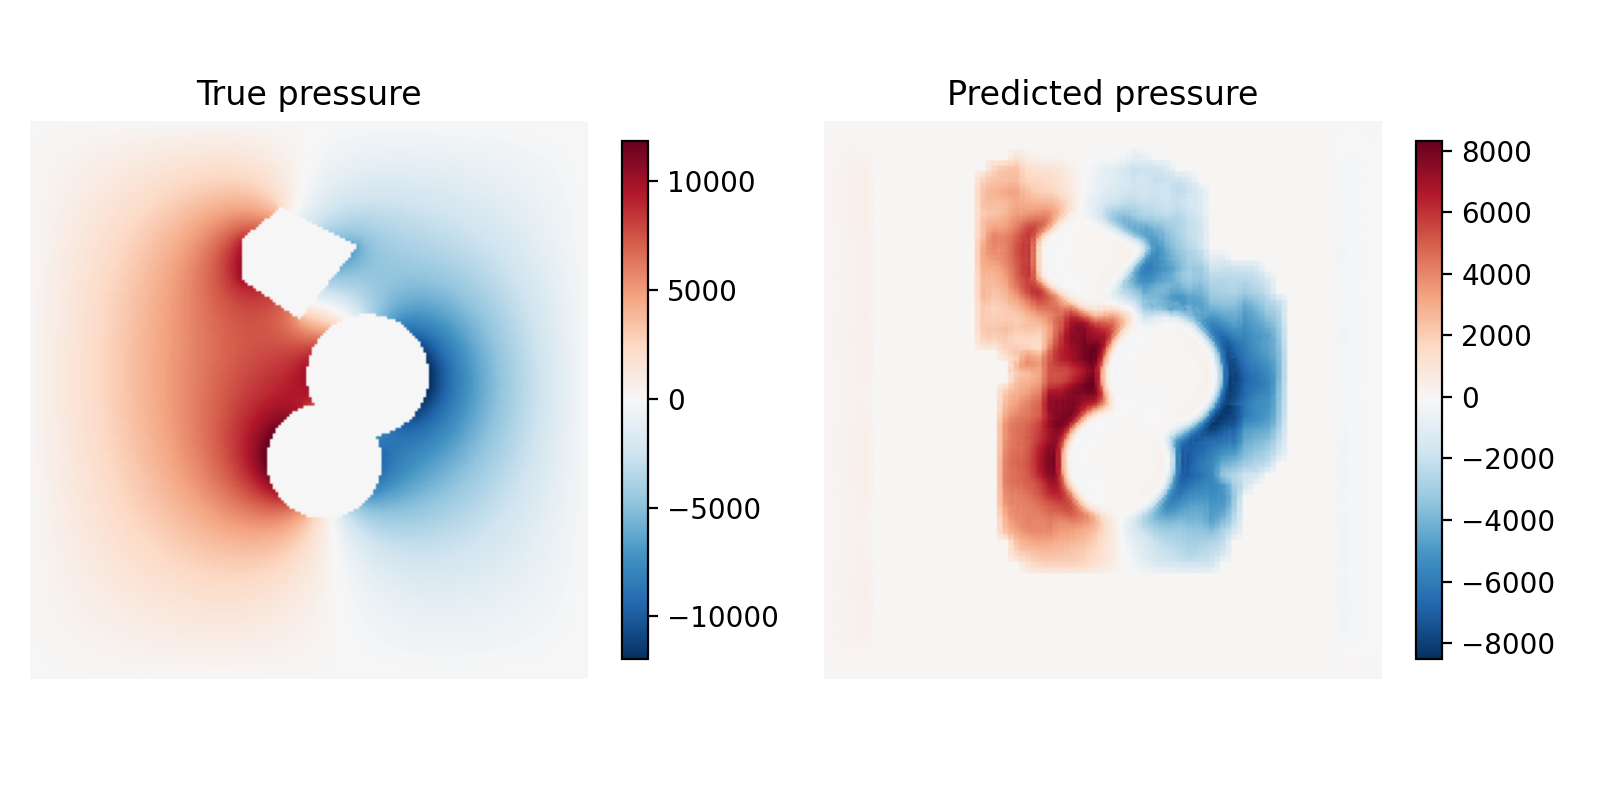
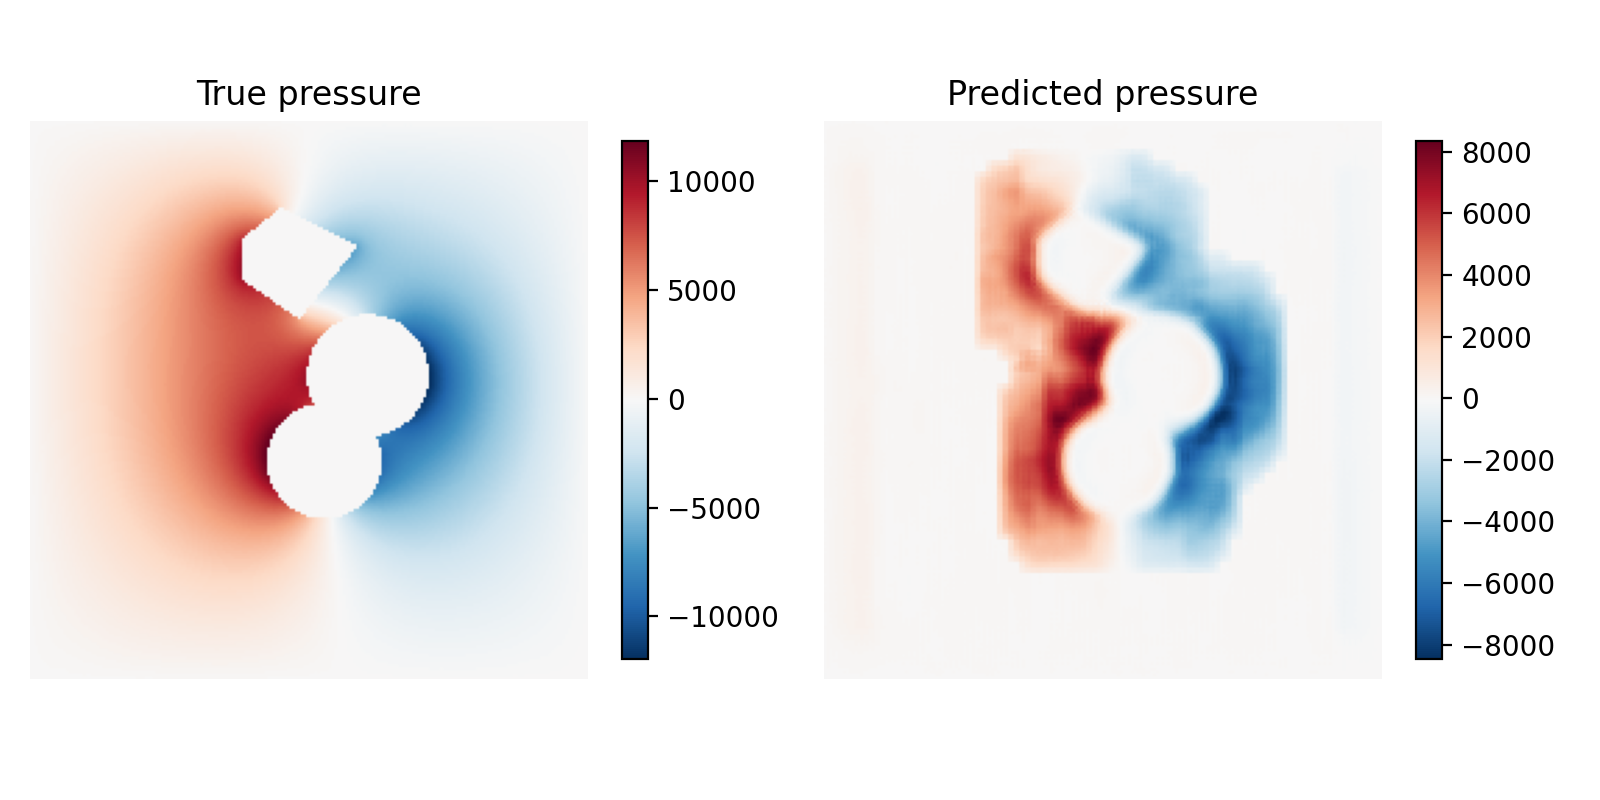
refactor: boosted lambda to try to get smoother result

diff --git a/scripts/train_model.py b/scripts/train_model.py
@@ -124,7 +124,7 @@ os.makedirs("logs", exist_ok=True)
 BATCH   = 8
 EPOCHS  = 30
 LR      = 1e-3
-LAMBDA  = 0.5          # weight for divergence penalty
+LAMBDA  = 0.8          # weight for divergence penalty
 
 # ───────────────────────────────────────────────────────────
 # 5.  Training script
